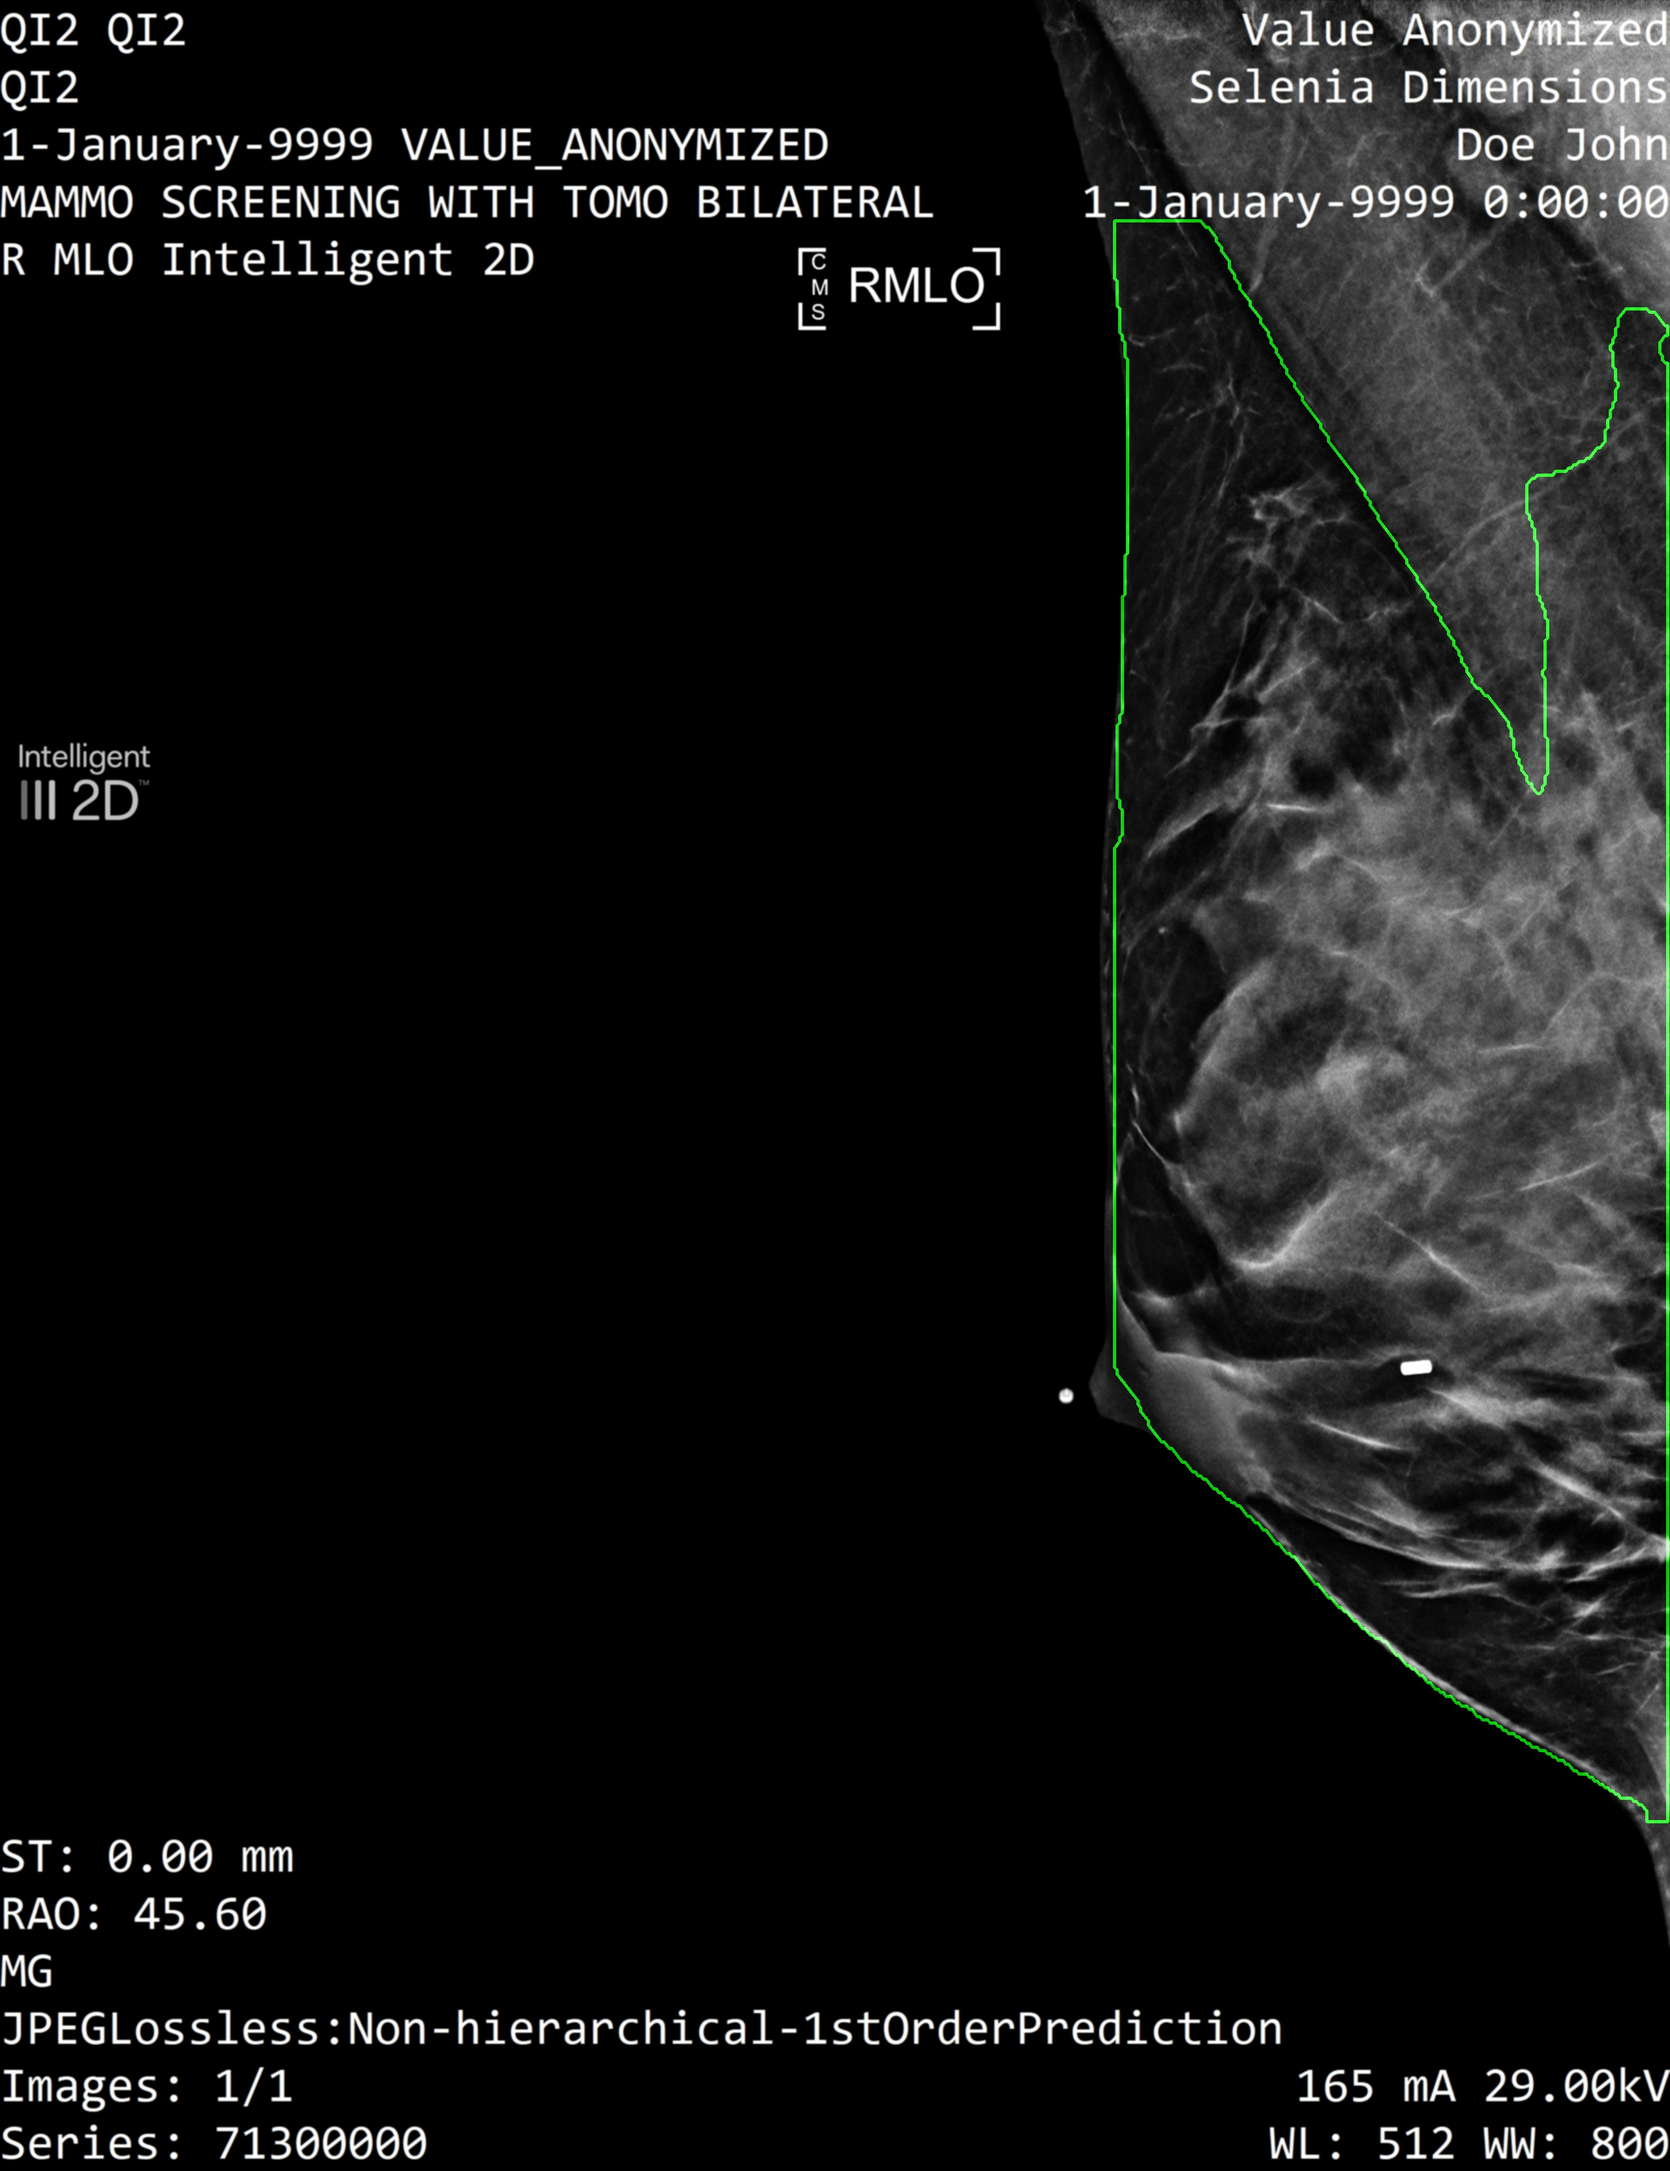
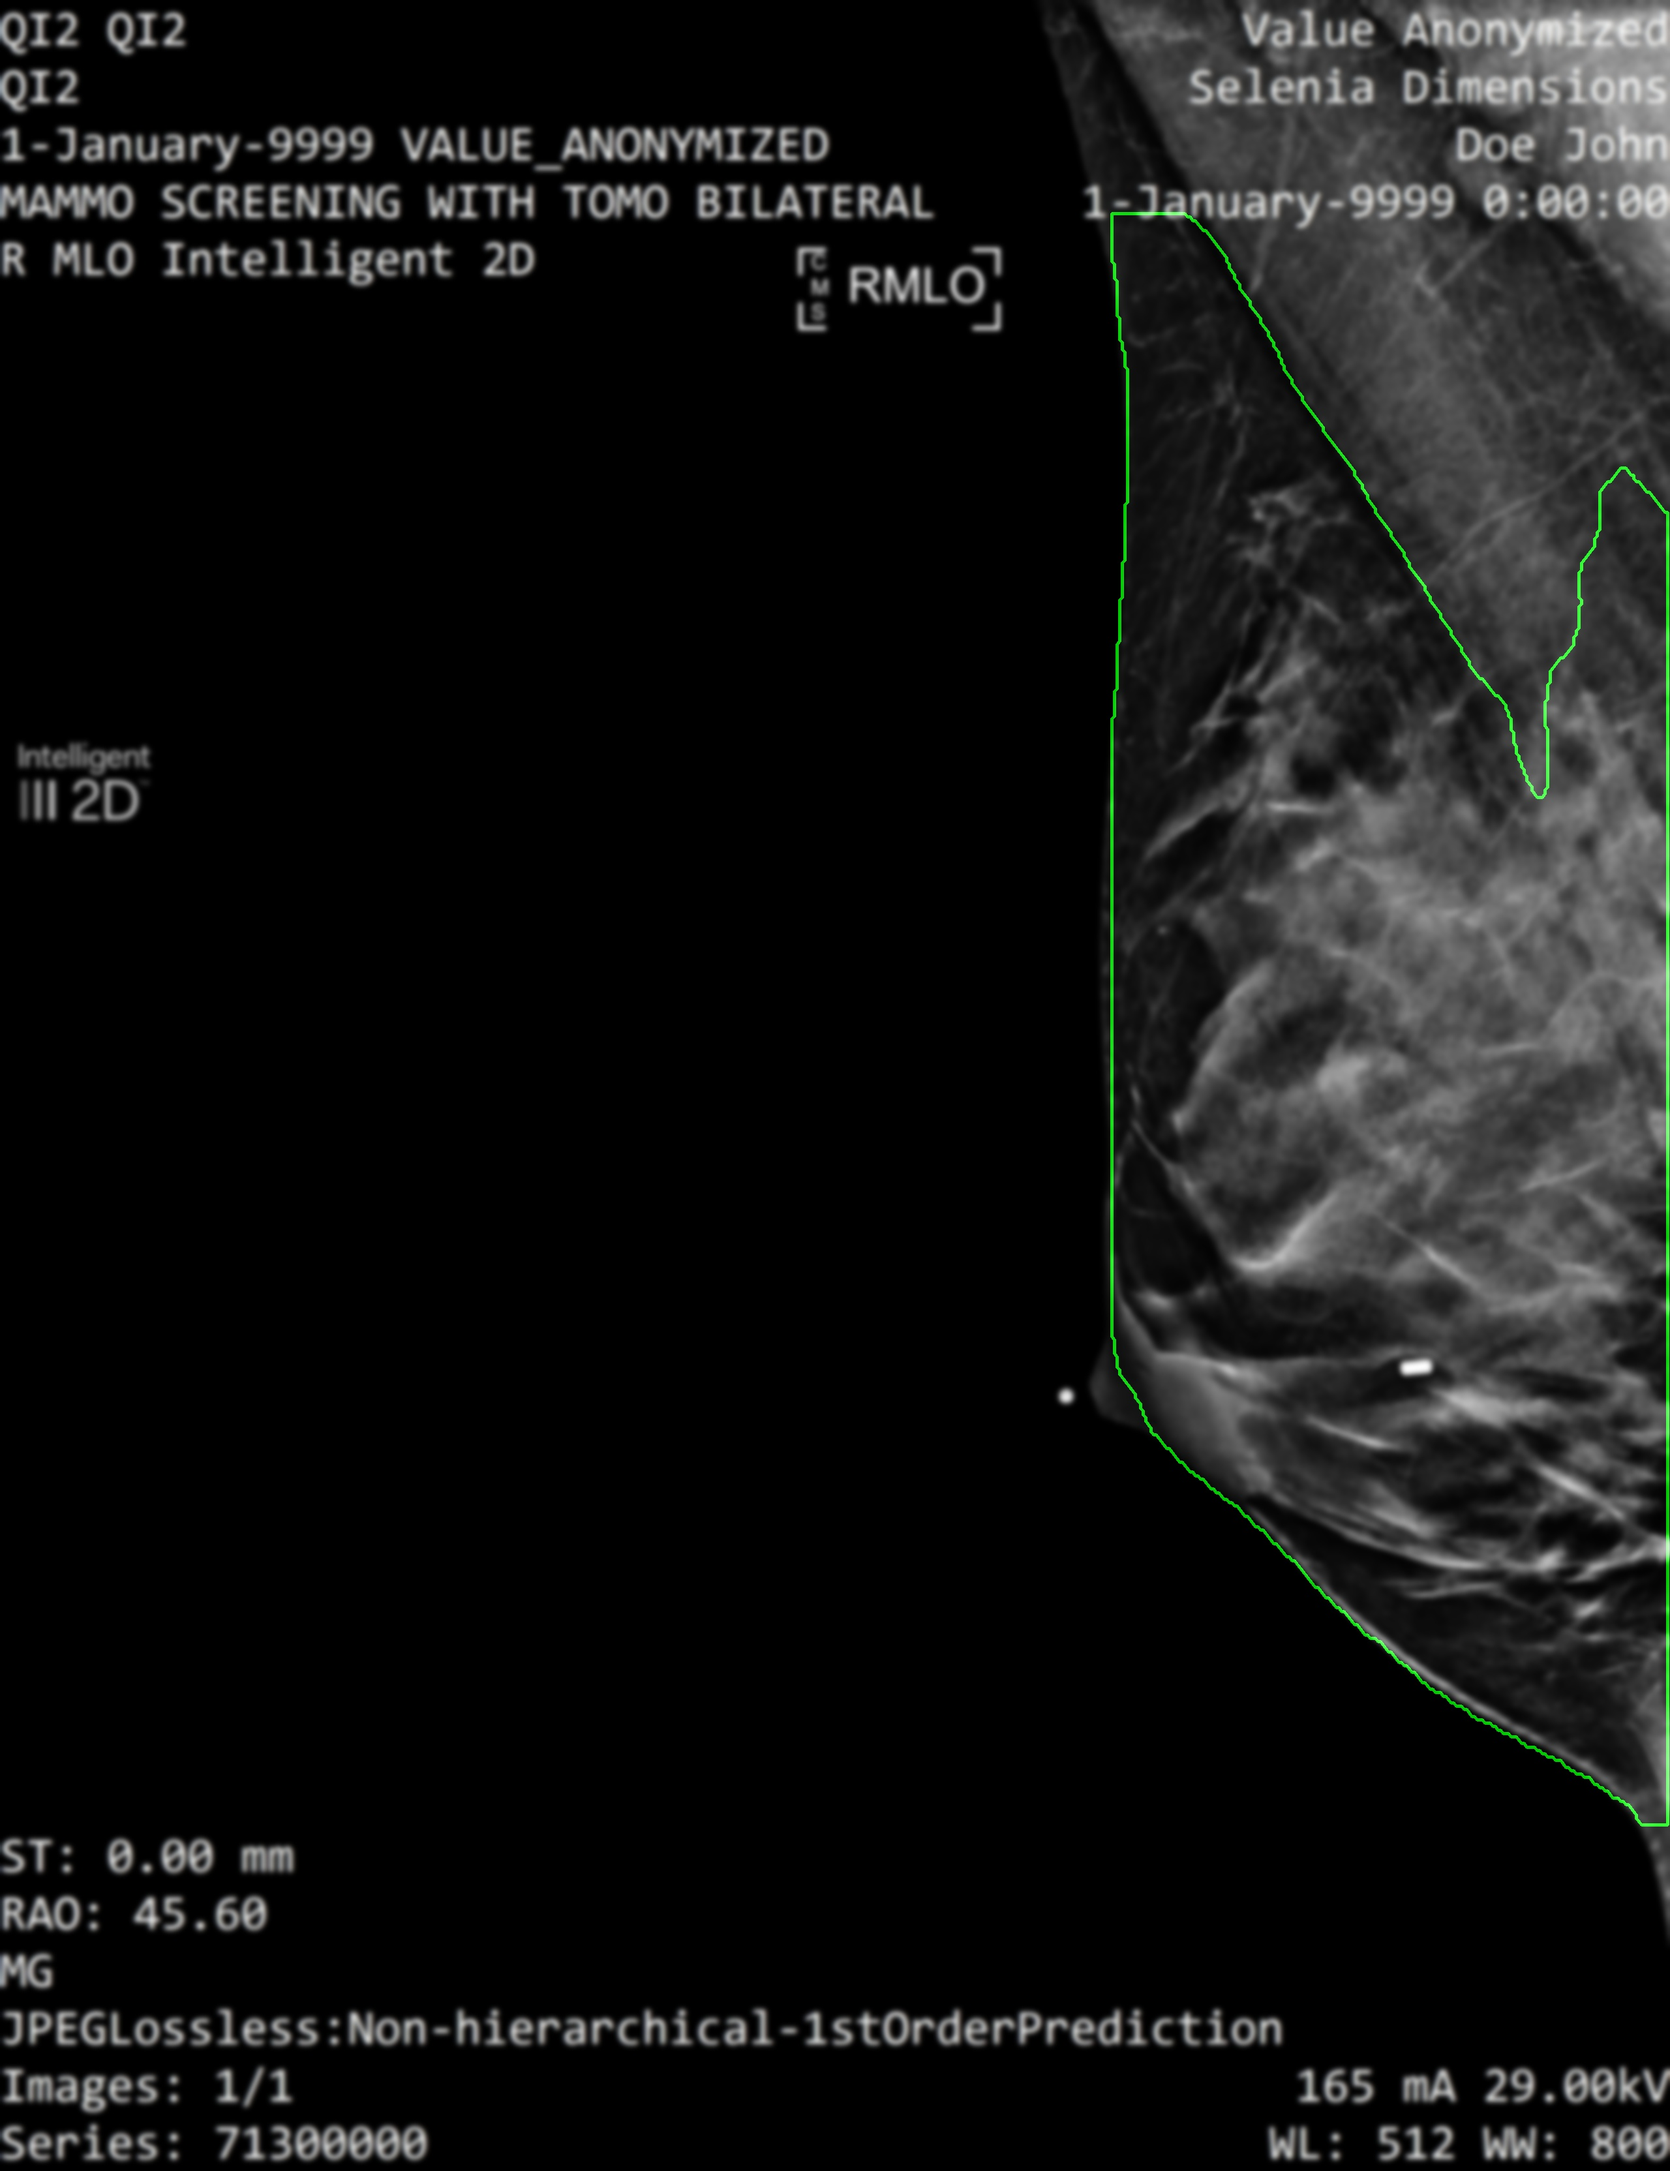
adjustments

diff --git a/ai/Segmentation.py b/ai/Segmentation.py
@@ -19,7 +19,7 @@ def segment(image_file, output_path="ai/segmented_contours.jpg"):
     image = cv2.imread(image_file)
 
     # gaussian blur
-    image = cv2.GaussianBlur(image, (5, 5), 0) 
+    image = cv2.GaussianBlur(image, (15, 15), 0) 
 
     # load pre-trained yolov8n model
     model = get_model(model_id="breast-segmentation-dxcby/3", api_key=os.getenv("ROBOFLOW_API_KEY"))
